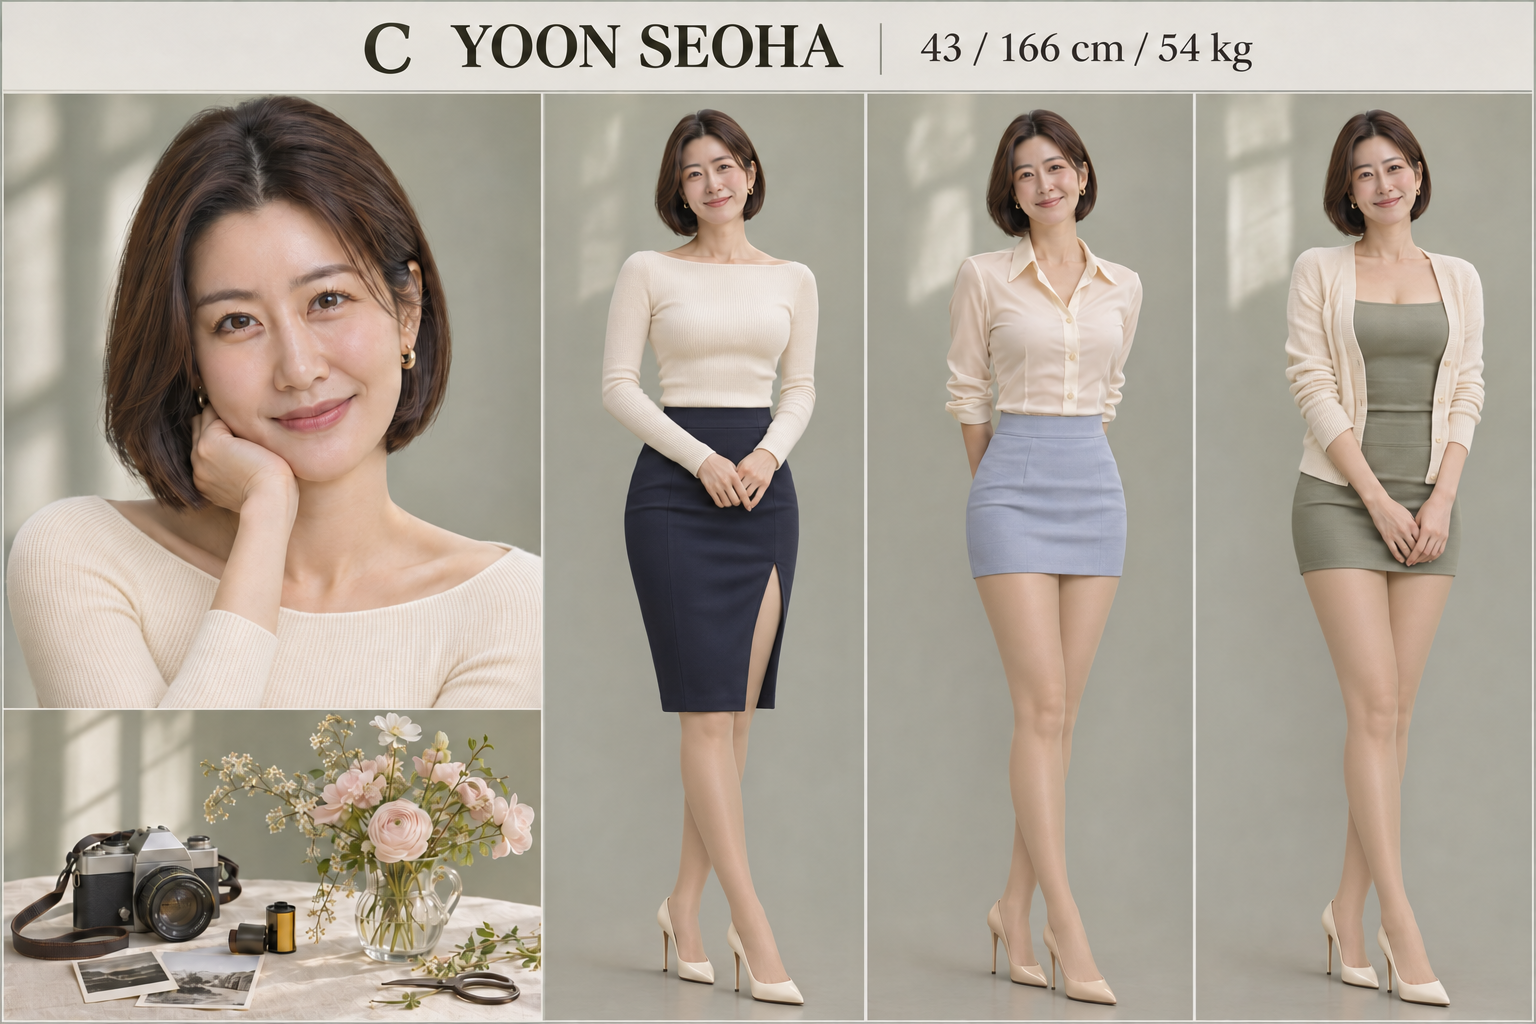
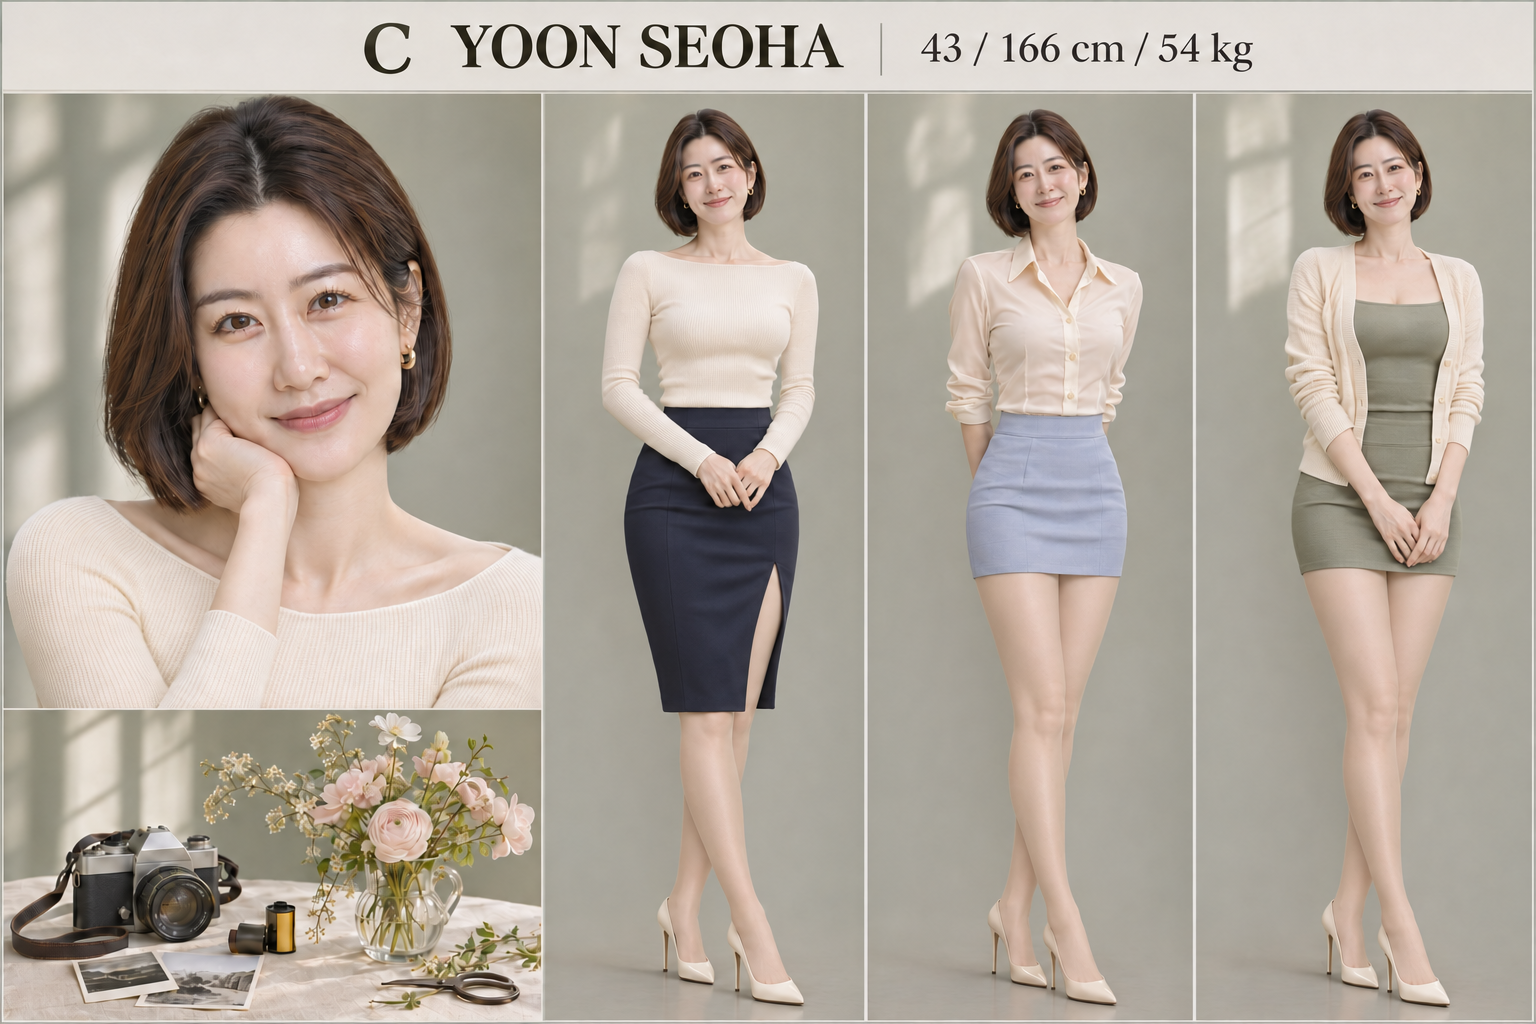
Restore Han Yuna profile and refine Yoon Seoha complexion

diff --git a/shorts.py b/shorts.py
@@ -35,7 +35,7 @@ class Host:
 HOSTS = {
     "A": Host(
         "한유나",
-        "32 years old, 168 cm, 51 kg, athletic fitness-trainer build with strong glutes and legs, "
+        "32 years old, 168 cm, 51 kg, slender build with natural proportions and soft muscle definition, "
         "heart-shaped face, bright warm brown almond eyes, "
         "fresh peach blush and a natural coral lip, "
         "one subtle cheek dimple, long chestnut-brown loose waves with wispy side fringe, "
@@ -59,6 +59,7 @@ HOSTS = {
     "C": Host(
         "윤서하",
         "43 years old, 166 cm, 54 kg, slender balanced build, soft oval face, gently straight brows, "
+        "fair clear luminous ivory-toned skin with realistic skin texture, "
         "clear dark eyes, chin-length deep-brown bob tucked behind one ear with a center part, "
         "close-fitting ivory boat-neck knit, fitted navy knee-length pencil skirt with a thigh-high side slit, "
         "sheer skin-tone tights, and cream pointed stiletto pumps",
